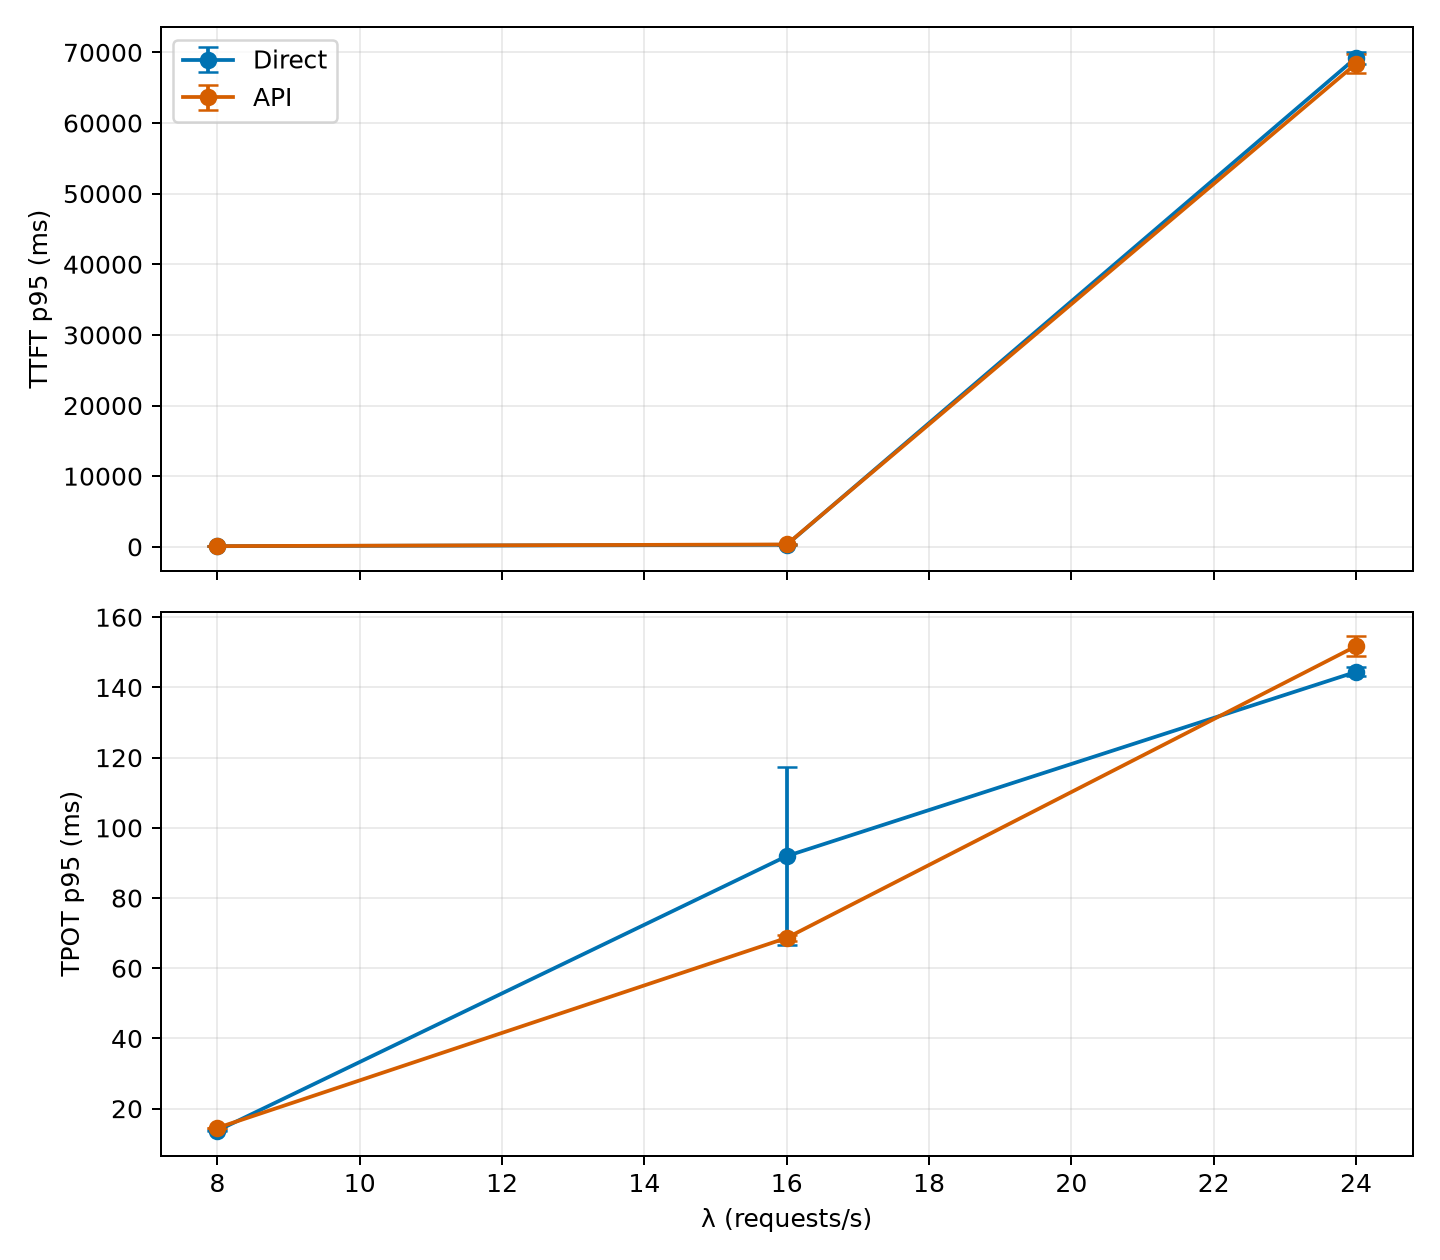
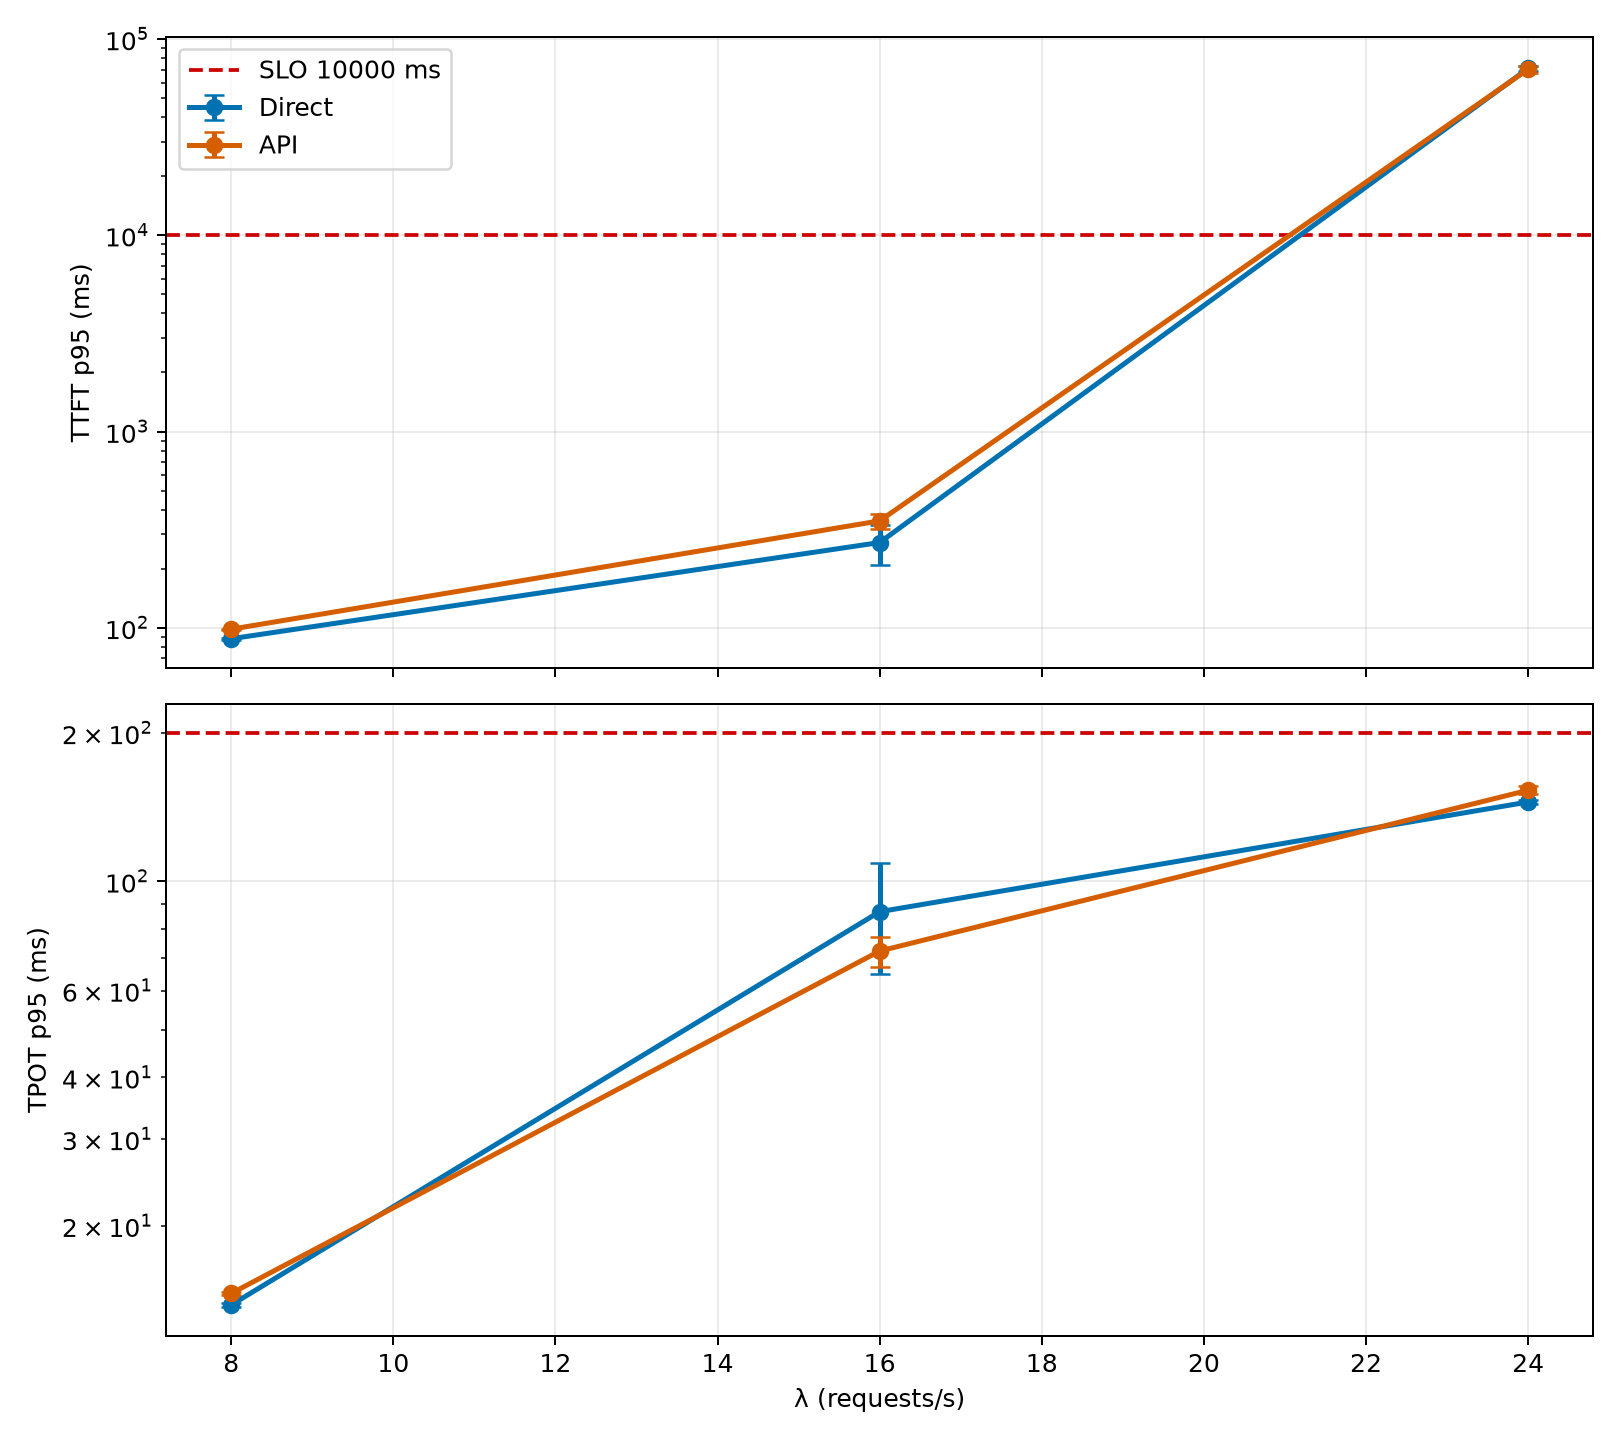
Update Apertus-8B API overhead report

diff --git a/apertus8b-api-overhead/generate_report.py b/apertus8b-api-overhead/generate_report.py
@@ -30,6 +30,7 @@ class Run:
     replicate: int
     db: Path
     benchmark_job_id: str
+    served_job_id: str
 
 
 SERVED = {
@@ -42,10 +43,12 @@ SERVED = {
 }
 
 RUNS = [
-    Run("Direct #1", "Direct", 1, DATA / "direct_run1.db", "2561761"),
-    Run("Direct #2", "Direct", 2, DATA / "direct_run2.db", "2562891"),
-    Run("API #1", "API", 1, DATA / "api_run1.db", "2561998"),
-    Run("API #2", "API", 2, DATA / "api_run2.db", "2563417"),
+    Run("Direct #1", "Direct", 1, DATA / "direct_run1.db", "2561761", "2561679"),
+    Run("Direct #2", "Direct", 2, DATA / "direct_run2.db", "2562891", "2561679"),
+    Run("Direct #3", "Direct", 3, DATA / "direct_run3.db", "2564347", "2563694"),
+    Run("API #1", "API", 1, DATA / "api_run1.db", "2561998", "2561679"),
+    Run("API #2", "API", 2, DATA / "api_run2.db", "2563417", "2561679"),
+    Run("API #3", "API", 3, DATA / "api_run3.db", "2564475", "2563694"),
 ]
 
 
@@ -136,8 +139,8 @@ def add_dcgm(data: dict) -> None:
         "fb_used_gib": "avg(avg_over_time(DCGM_FI_DEV_FB_USED{{{sel}}}[{dur}s])) / 1024",
         "power_total_w": "sum(avg_over_time(DCGM_FI_DEV_POWER_USAGE{{{sel}}}[{dur}s]))",
     }
-    sel = f'slurm_job_id="{SERVED["job_id"]}"'
     for item in data["runs"]:
+        sel = f'slurm_job_id="{item["run"]["served_job_id"]}"'
         for rate in item["rates"]:
             start = iso_to_ts(rate["start"])
             end = iso_to_ts(rate["end"])
@@ -191,15 +194,21 @@ def generate_plots(data: dict) -> None:
     g = grouped(data)
     rates = [8.0, 16.0, 24.0]
     colors = {"Direct": "#0072B2", "API": "#D55E00"}
-    fig, axes = plt.subplots(2, 1, figsize=(8, 7), sharex=True)
-    for metric, ax, label in [("ttft_p95_ms", axes[0], "TTFT p95 (ms)"), ("tpot_p95_ms", axes[1], "TPOT p95 (ms)")]:
+    fig, axes = plt.subplots(2, 1, figsize=(9, 8), sharex=True)
+    for metric, ax, slo, label in [
+        ("ttft_p95_ms", axes[0], 10000, "TTFT p95 (ms)"),
+        ("tpot_p95_ms", axes[1], 200, "TPOT p95 (ms)"),
+    ]:
         for path in ["Direct", "API"]:
-            means, errs = [], []
+            means, lows, highs = [], [], []
             for rate in rates:
                 m, s = mean_std([g[path][rep][rate].get(metric) for rep in g[path]])
                 means.append(m)
-                errs.append(s or 0)
-            ax.errorbar(rates, means, yerr=errs, marker="o", capsize=4, label=path, color=colors[path])
+                lows.append(s or 0)
+                highs.append(s or 0)
+            ax.errorbar(rates, means, yerr=[lows, highs], marker="o", linewidth=2, capsize=4, label=path, color=colors[path])
+        ax.axhline(slo, color="#cc0000", linestyle="--", label=f"SLO {slo:g} ms")
+        ax.set_yscale("log")
         ax.set_ylabel(label)
         ax.grid(True, alpha=0.25)
     axes[1].set_xlabel("λ (requests/s)")
@@ -215,8 +224,8 @@ def write_report(data: dict) -> None:
 **Date:** 2026-06-18  
 **Model:** `swiss-ai/Apertus-8B-Instruct-2509`  
 **Engine:** SGLang, radix cache disabled, metrics enabled  
-**Served job:** `{SERVED['job_id']}` on `{SERVED['node']}`  
-**Replicates:** N=2 per endpoint path
+**Serving:** SGLang, same launch configuration  
+**Replicates:** N=3 per endpoint path
 
 ## Research Question
 
@@ -274,7 +283,7 @@ Both paths passed through λ=16 and early-stopped at λ=24 due TTFT p95 saturati
 
 {table(data, 'power_total_w', dcgm=True)}
 
-DCGM telemetry is queried with `slurm_job_id="{SERVED['job_id']}"` and aligned to each benchmark measurement window using timestamps from the run DBs.
+DCGM telemetry is queried by served-model SLURM job ID and aligned to each benchmark measurement window using timestamps from the run DBs.
 
 ## Provenance
 
@@ -282,8 +291,10 @@ DCGM telemetry is queried with `slurm_job_id="{SERVED['job_id']}"` and aligned t
 |---|---:|---:|---|
 | Direct | 1 | 2561761 | `data/direct_run1.db` |
 | Direct | 2 | 2562891 | `data/direct_run2.db` |
+| Direct | 3 | 2564347 | `data/direct_run3.db` |
 | API | 1 | 2561998 | `data/api_run1.db` |
 | API | 2 | 2563417 | `data/api_run2.db` |
+| API | 3 | 2564475 | `data/api_run3.db` |
 
 ## Limitations
 

diff --git a/apertus8b-api-overhead/report.md b/apertus8b-api-overhead/report.md
@@ -3,8 +3,8 @@
 **Date:** 2026-06-18  
 **Model:** `swiss-ai/Apertus-8B-Instruct-2509`  
 **Engine:** SGLang, radix cache disabled, metrics enabled  
-**Served job:** `2561679` on `nid007232`  
-**Replicates:** N=2 per endpoint path
+**Serving:** SGLang, same launch configuration  
+**Replicates:** N=3 per endpoint path
 
 ## Research Question
 
@@ -34,22 +34,22 @@ Only the endpoint path changed between paired runs. The same served model, promp
 
 | Path | λ=8 | λ=16 | λ=24 |
 |---|---:|---:|---:|
-| Direct | 87.9 ± 1.2 | 284.6 ± 74.3 | 69244.2 ± 843.6 |
-| API | 98.0 ± 0.2 | 332.1 ± 20.6 | 68392.9 ± 1350.5 |
+| Direct | 87.9 ± 0.9 | 271.9 ± 63.3 | 70863.4 ± 2391.2 |
+| API | 98.3 ± 0.5 | 350.6 ± 31.1 | 70277.7 ± 2884.5 |
 
 ### TPOT p95 (ms, mean ± std)
 
 | Path | λ=8 | λ=16 | λ=24 |
 |---|---:|---:|---:|
-| Direct | 13.7 ± 0.0 | 92.0 ± 25.3 | 144.4 ± 1.3 |
-| API | 14.5 ± 0.1 | 68.6 ± 0.8 | 151.8 ± 2.8 |
+| Direct | 13.8 ± 0.1 | 86.7 ± 21.9 | 144.8 ± 1.2 |
+| API | 14.6 ± 0.1 | 72.2 ± 5.0 | 152.9 ± 2.8 |
 
 ### Output tokens/s (mean ± std)
 
 | Path | λ=8 | λ=16 | λ=24 |
 |---|---:|---:|---:|
-| Direct | 2835.5 ± 3.7 | 5881.5 ± 3.1 | 8609.3 ± 4.4 |
-| API | 2772.6 ± 0.9 | 5748.1 ± 7.6 | 8431.8 ± 8.4 |
+| Direct | 2834.8 ± 3.2 | 5878.8 ± 4.5 | 8610.6 ± 4.0 |
+| API | 2774.0 ± 2.0 | 5748.2 ± 6.2 | 8430.5 ± 7.1 |
 
 ### Error rate % (mean ± std)
 
@@ -66,24 +66,24 @@ Both paths passed through λ=16 and early-stopped at λ=24 due TTFT p95 saturati
 
 | Path | λ=8 | λ=16 | λ=24 |
 |---|---:|---:|---:|
-| Direct | 25.0 ± 0.0 | 23.7 ± 1.3 | 24.9 ± 0.1 |
+| Direct | 25.0 ± 0.0 | 24.1 ± 1.2 | 24.6 ± 0.4 |
 | API | 25.0 ± 0.0 | 25.0 ± 0.0 | 25.0 ± 0.0 |
 
 ### SM active % (mean ± std)
 
 | Path | λ=8 | λ=16 | λ=24 |
 |---|---:|---:|---:|
-| Direct | 16.5 ± 0.5 | 21.1 ± 0.7 | 22.8 ± 0.2 |
-| API | 16.6 ± 0.2 | 21.7 ± 0.0 | 23.0 ± 0.2 |
+| Direct | 16.2 ± 0.6 | 21.3 ± 0.7 | 22.8 ± 0.1 |
+| API | 16.4 ± 0.3 | 21.7 ± 0.0 | 23.0 ± 0.1 |
 
 ### Total GPU power W (mean ± std)
 
 | Path | λ=8 | λ=16 | λ=24 |
 |---|---:|---:|---:|
-| Direct | 768.2 ± 0.6 | 787.4 ± 5.9 | 797.5 ± 0.7 |
-| API | 777.8 ± 1.2 | 793.0 ± 1.6 | 796.5 ± 0.9 |
+| Direct | 767.6 ± 0.9 | 784.2 ± 6.6 | 790.6 ± 9.7 |
+| API | 772.7 ± 7.3 | 786.8 ± 8.8 | 791.9 ± 6.5 |
 
-DCGM telemetry is queried with `slurm_job_id="2561679"` and aligned to each benchmark measurement window using timestamps from the run DBs.
+DCGM telemetry is queried by served-model SLURM job ID and aligned to each benchmark measurement window using timestamps from the run DBs.
 
 ## Provenance
 
@@ -91,8 +91,10 @@ DCGM telemetry is queried with `slurm_job_id="2561679"` and aligned to each benc
 |---|---:|---:|---|
 | Direct | 1 | 2561761 | `data/direct_run1.db` |
 | Direct | 2 | 2562891 | `data/direct_run2.db` |
+| Direct | 3 | 2564347 | `data/direct_run3.db` |
 | API | 1 | 2561998 | `data/api_run1.db` |
 | API | 2 | 2563417 | `data/api_run2.db` |
+| API | 3 | 2564475 | `data/api_run3.db` |
 
 ## Limitations
 
@@ -101,4 +103,4 @@ DCGM telemetry is queried with `slurm_job_id="2561679"` and aligned to each benc
 - λ=24 is saturated in both paths, so API overhead should be interpreted mainly at λ=8 and λ=16.
 - Client event-loop lag warnings appeared at λ=24, which reinforces treating the saturated point as overload evidence rather than a precise latency estimate.
 
-Generated: 2026-06-18T18:43:04.693020+00:00
+Generated: 2026-06-18T21:55:27.030456+00:00